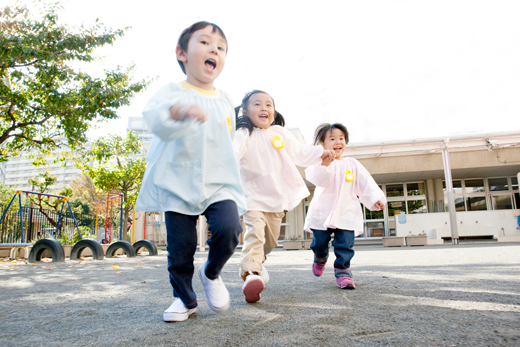
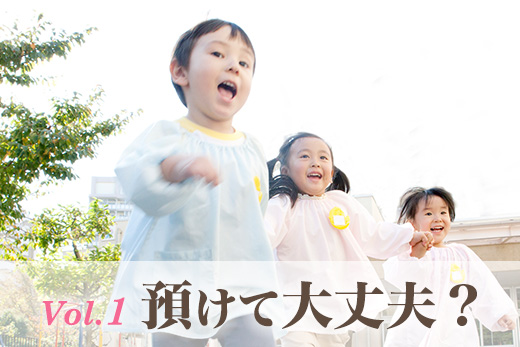
Updated Article file

diff --git a/app/assets/stylesheets/application.css b/app/assets/stylesheets/application.css
@@ -8641,7 +8641,7 @@ span.head--city {
   padding: 20px 0;
   border-bottom: 1px solid #d8d5d0;
   list-style: none;
-  height: 30em;
+  height: 32em;
 }
 /* line 332, ../sass/application.scss */
 .article-list a.article-list :hover,
@@ -8810,7 +8810,7 @@ span.head--city {
 
 /* line 495, ../sass/application.scss */
 .article-title:before {
-  background: url("a001_4179217.jpg");
+  background: url("a001_4179217w.jpg");
   background-position: center;
   background-size: cover;
   background-attachment: scroll;
@@ -8833,7 +8833,7 @@ span.head--city {
 
 /* line 516, ../sass/application.scss */
 .article-title2:before {
-  background: url("a002_11714360.jpg");
+  background: url("a002_11714360w.jpg");
   background-position: center;
   background-size: cover;
   background-attachment: scroll;

diff --git a/app/assets/sass/application.scss b/app/assets/sass/application.scss
@@ -325,7 +325,7 @@
   padding: ($line-height-computed) 0;
   border-bottom: 1px solid #d8d5d0;
   list-style: none;
-  height: 30em;
+  height: 32em;
 
   a.article-list :hover,
   a.article-list :focus,
@@ -493,7 +493,7 @@
 // --------------------------------------------------
 
 .article-title:before {
-  background:url("a001_4179217.jpg");
+  background:url("a001_4179217w.jpg");
   background-position: center;
   background-size: cover;
   background-attachment: scroll;
@@ -514,7 +514,7 @@
 }
 
 .article-title2:before {
-  background:url("a002_11714360.jpg");
+  background:url("a002_11714360w.jpg");
   background-position: center;
   background-size: cover;
   background-attachment: scroll;
